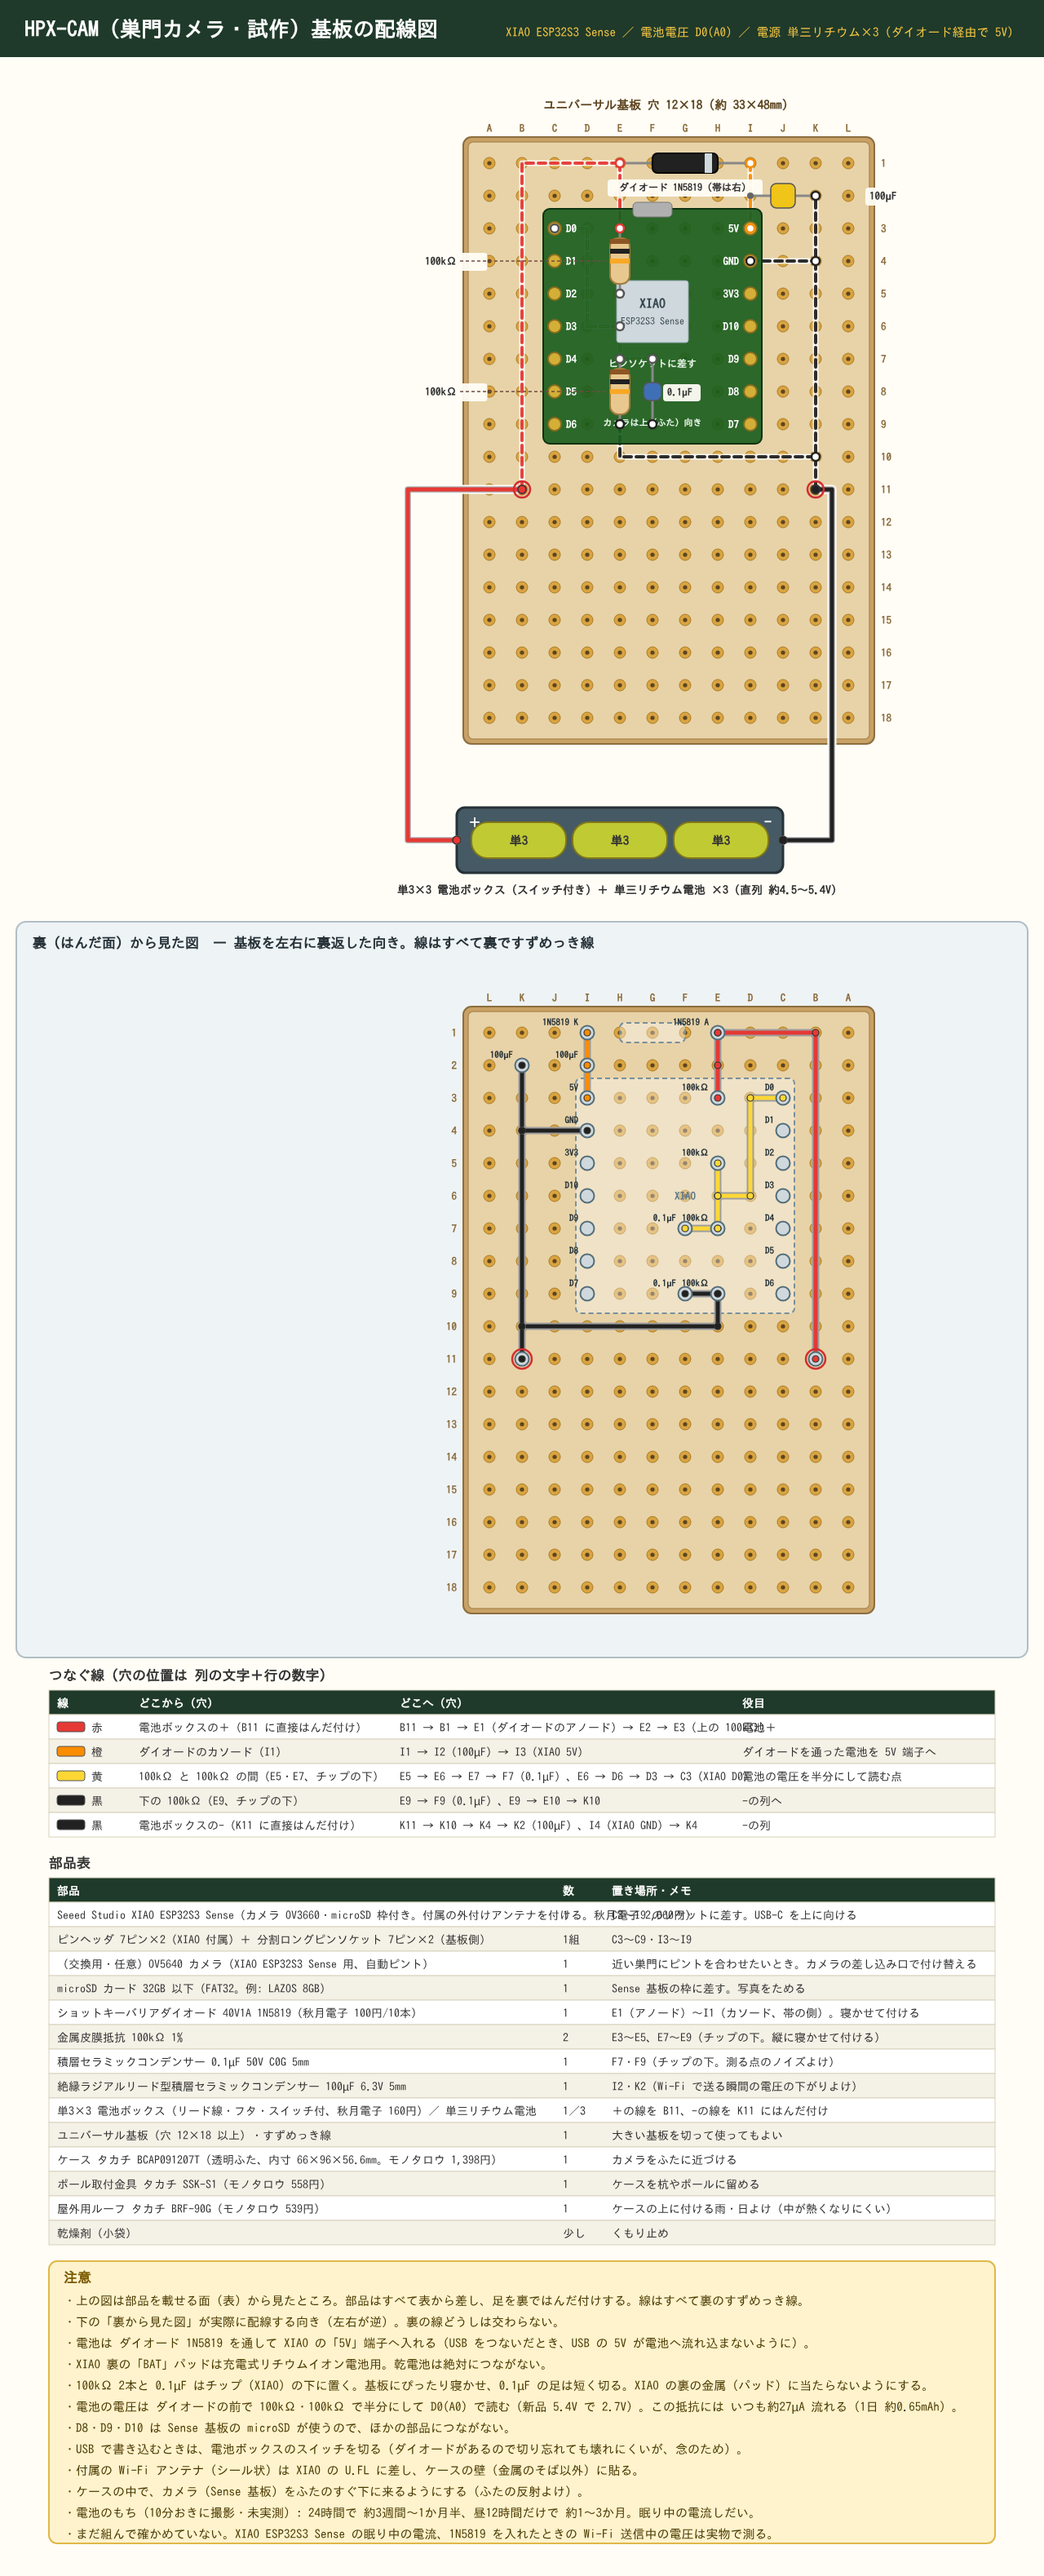
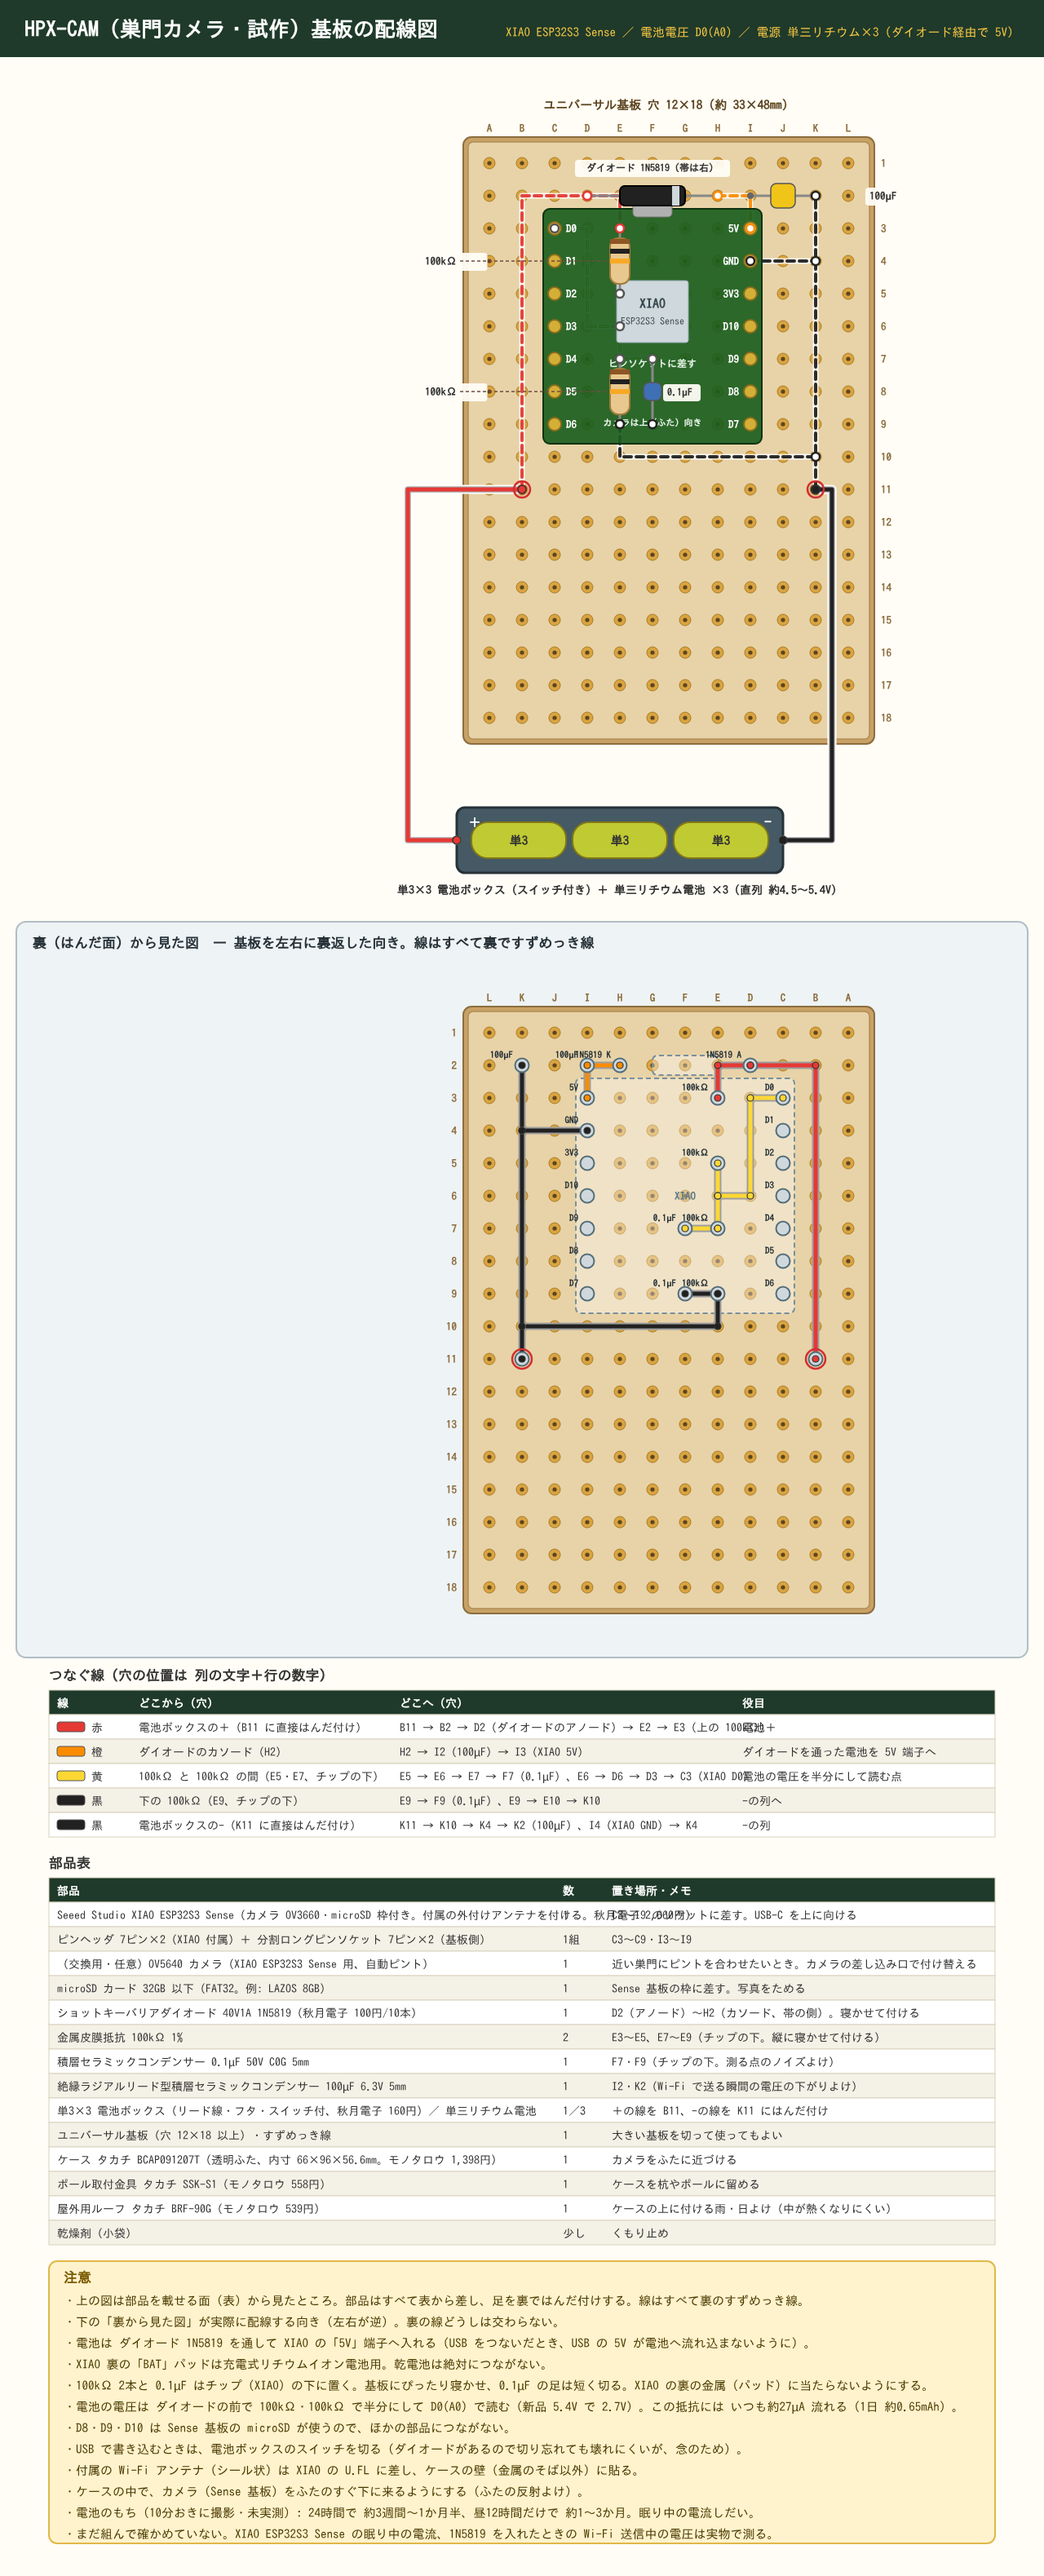
HPX-CAM: ダイオードを D2〜H2 に (TARO 指定)
Claude-Session: https://claude.ai/code/session_01LCC9B3VoVWL7WDxMCJTnsZ

Changed region(s): [[0.5938, 0.3724, 0.7812, 0.4345], [0.5, 0.0621, 0.7188, 0.0931], [0.5625, 0.4034, 0.5938, 0.4345]]

diff --git a/site/device-cam.html b/site/device-cam.html
@@ -252,11 +252,11 @@
       </figure>
       <div class="wtab"><h3>つなぐ線（穴の位置は 列の文字＋行の数字）</h3><div class="scroll"><table>
         <thead><tr><th>線</th><th>どこから（穴）</th><th>どこへ（穴）</th><th>役目</th></tr></thead>
-        <tbody><tr><td class="wc"><span class="sw" style="background:#e53935"></span>赤</td><td>電池ボックスの＋（B11 に直接はんだ付け）</td><td>B11 → B1 → E1（ダイオードのアノード）→ E2 → E3（上の 100kΩ）</td><td>電池＋</td></tr><tr><td class="wc"><span class="sw" style="background:#fb8c00"></span>橙</td><td>ダイオードのカソード（I1）</td><td>I1 → I2（100µF）→ I3（XIAO 5V）</td><td>ダイオードを通った電池を 5V 端子へ</td></tr><tr><td class="wc"><span class="sw" style="background:#fdd835"></span>黄</td><td>100kΩ と 100kΩ の間（E5・E7、チップの下）</td><td>E5 → E6 → E7 → F7（0.1µF）、E6 → D6 → D3 → C3（XIAO D0）</td><td>電池の電圧を半分にして読む点</td></tr><tr><td class="wc"><span class="sw" style="background:#212121"></span>黒</td><td>下の 100kΩ（E9、チップの下）</td><td>E9 → F9（0.1µF）、E9 → E10 → K10</td><td>−の列へ</td></tr><tr><td class="wc"><span class="sw" style="background:#212121"></span>黒</td><td>電池ボックスの−（K11 に直接はんだ付け）</td><td>K11 → K10 → K4 → K2（100µF）、I4（XIAO GND）→ K4</td><td>−の列</td></tr></tbody>
+        <tbody><tr><td class="wc"><span class="sw" style="background:#e53935"></span>赤</td><td>電池ボックスの＋（B11 に直接はんだ付け）</td><td>B11 → B2 → D2（ダイオードのアノード）→ E2 → E3（上の 100kΩ）</td><td>電池＋</td></tr><tr><td class="wc"><span class="sw" style="background:#fb8c00"></span>橙</td><td>ダイオードのカソード（H2）</td><td>H2 → I2（100µF）→ I3（XIAO 5V）</td><td>ダイオードを通った電池を 5V 端子へ</td></tr><tr><td class="wc"><span class="sw" style="background:#fdd835"></span>黄</td><td>100kΩ と 100kΩ の間（E5・E7、チップの下）</td><td>E5 → E6 → E7 → F7（0.1µF）、E6 → D6 → D3 → C3（XIAO D0）</td><td>電池の電圧を半分にして読む点</td></tr><tr><td class="wc"><span class="sw" style="background:#212121"></span>黒</td><td>下の 100kΩ（E9、チップの下）</td><td>E9 → F9（0.1µF）、E9 → E10 → K10</td><td>−の列へ</td></tr><tr><td class="wc"><span class="sw" style="background:#212121"></span>黒</td><td>電池ボックスの−（K11 に直接はんだ付け）</td><td>K11 → K10 → K4 → K2（100µF）、I4（XIAO GND）→ K4</td><td>−の列</td></tr></tbody>
       </table></div></div>
       <div class="wtab"><h3>部品の置き場所</h3><div class="scroll"><table>
         <thead><tr><th>部品</th><th>数</th><th>置き場所・メモ</th></tr></thead>
-        <tbody><tr><td>Seeed Studio XIAO ESP32S3 Sense（カメラ OV3660・microSD 枠付き。付属の外付けアンテナを付ける。秋月電子 2,660円）</td><td>1</td><td>C3〜I9 のソケットに差す。USB-C を上に向ける</td></tr><tr><td>ピンヘッダ 7ピン×2（XIAO 付属）＋ 分割ロングピンソケット 7ピン×2（基板側）</td><td>1組</td><td>C3〜C9・I3〜I9</td></tr><tr><td>（交換用・任意）OV5640 カメラ（XIAO ESP32S3 Sense 用、自動ピント）</td><td>1</td><td>近い巣門にピントを合わせたいとき。カメラの差し込み口で付け替える</td></tr><tr><td>microSD カード 32GB 以下（FAT32。例: LAZOS 8GB）</td><td>1</td><td>Sense 基板の枠に差す。写真をためる</td></tr><tr><td>ショットキーバリアダイオード 40V1A 1N5819（秋月電子 100円/10本）</td><td>1</td><td>E1（アノード）〜I1（カソード、帯の側）。寝かせて付ける</td></tr><tr><td>金属皮膜抵抗 100kΩ 1%</td><td>2</td><td>E3〜E5、E7〜E9（チップの下。縦に寝かせて付ける）</td></tr><tr><td>積層セラミックコンデンサー 0.1µF 50V C0G 5mm</td><td>1</td><td>F7・F9（チップの下。測る点のノイズよけ）</td></tr><tr><td>絶縁ラジアルリード型積層セラミックコンデンサー 100µF 6.3V 5mm</td><td>1</td><td>I2・K2（Wi-Fi で送る瞬間の電圧の下がりよけ）</td></tr><tr><td>単3×3 電池ボックス（リード線・フタ・スイッチ付、秋月電子 160円）／ 単三リチウム電池</td><td>1／3</td><td>＋の線を B11、−の線を K11 にはんだ付け</td></tr><tr><td>ユニバーサル基板（穴 12×18 以上）・すずめっき線</td><td>1</td><td>大きい基板を切って使ってもよい</td></tr><tr><td>ケース タカチ BCAP091207T（透明ふた、内寸 66×96×56.6mm。モノタロウ 1,398円）</td><td>1</td><td>カメラをふたに近づける</td></tr><tr><td>ポール取付金具 タカチ SSK-S1（モノタロウ 558円）</td><td>1</td><td>ケースを杭やポールに留める</td></tr><tr><td>屋外用ルーフ タカチ BRF-90G（モノタロウ 539円）</td><td>1</td><td>ケースの上に付ける雨・日よけ（中が熱くなりにくい）</td></tr><tr><td>乾燥剤（小袋）</td><td>少し</td><td>くもり止め</td></tr></tbody>
+        <tbody><tr><td>Seeed Studio XIAO ESP32S3 Sense（カメラ OV3660・microSD 枠付き。付属の外付けアンテナを付ける。秋月電子 2,660円）</td><td>1</td><td>C3〜I9 のソケットに差す。USB-C を上に向ける</td></tr><tr><td>ピンヘッダ 7ピン×2（XIAO 付属）＋ 分割ロングピンソケット 7ピン×2（基板側）</td><td>1組</td><td>C3〜C9・I3〜I9</td></tr><tr><td>（交換用・任意）OV5640 カメラ（XIAO ESP32S3 Sense 用、自動ピント）</td><td>1</td><td>近い巣門にピントを合わせたいとき。カメラの差し込み口で付け替える</td></tr><tr><td>microSD カード 32GB 以下（FAT32。例: LAZOS 8GB）</td><td>1</td><td>Sense 基板の枠に差す。写真をためる</td></tr><tr><td>ショットキーバリアダイオード 40V1A 1N5819（秋月電子 100円/10本）</td><td>1</td><td>D2（アノード）〜H2（カソード、帯の側）。寝かせて付ける</td></tr><tr><td>金属皮膜抵抗 100kΩ 1%</td><td>2</td><td>E3〜E5、E7〜E9（チップの下。縦に寝かせて付ける）</td></tr><tr><td>積層セラミックコンデンサー 0.1µF 50V C0G 5mm</td><td>1</td><td>F7・F9（チップの下。測る点のノイズよけ）</td></tr><tr><td>絶縁ラジアルリード型積層セラミックコンデンサー 100µF 6.3V 5mm</td><td>1</td><td>I2・K2（Wi-Fi で送る瞬間の電圧の下がりよけ）</td></tr><tr><td>単3×3 電池ボックス（リード線・フタ・スイッチ付、秋月電子 160円）／ 単三リチウム電池</td><td>1／3</td><td>＋の線を B11、−の線を K11 にはんだ付け</td></tr><tr><td>ユニバーサル基板（穴 12×18 以上）・すずめっき線</td><td>1</td><td>大きい基板を切って使ってもよい</td></tr><tr><td>ケース タカチ BCAP091207T（透明ふた、内寸 66×96×56.6mm。モノタロウ 1,398円）</td><td>1</td><td>カメラをふたに近づける</td></tr><tr><td>ポール取付金具 タカチ SSK-S1（モノタロウ 558円）</td><td>1</td><td>ケースを杭やポールに留める</td></tr><tr><td>屋外用ルーフ タカチ BRF-90G（モノタロウ 539円）</td><td>1</td><td>ケースの上に付ける雨・日よけ（中が熱くなりにくい）</td></tr><tr><td>乾燥剤（小袋）</td><td>少し</td><td>くもり止め</td></tr></tbody>
       </table></div></div>
       <div class="wnote"><h3>注意</h3><ul><li>上の図は部品を載せる面（表）から見たところ。部品はすべて表から差し、足を裏ではんだ付けする。線はすべて裏のすずめっき線。</li><li>下の「裏から見た図」が実際に配線する向き（左右が逆）。裏の線どうしは交わらない。</li><li>電池は ダイオード 1N5819 を通して XIAO の「5V」端子へ入れる（USB をつないだとき、USB の 5V が電池へ流れ込まないように）。</li><li>XIAO 裏の「BAT」パッドは充電式リチウムイオン電池用。乾電池は絶対につながない。</li><li>100kΩ 2本と 0.1µF はチップ（XIAO）の下に置く。基板にぴったり寝かせ、0.1µF の足は短く切る。XIAO の裏の金属（パッド）に当たらないようにする。</li><li>電池の電圧は ダイオードの前で 100kΩ・100kΩ で半分にして D0(A0) で読む（新品 5.4V で 2.7V）。この抵抗には いつも約27µA 流れる（1日 約0.65mAh）。</li><li>D8・D9・D10 は Sense 基板の microSD が使うので、ほかの部品につながない。</li><li>USB で書き込むときは、電池ボックスのスイッチを切る（ダイオードがあるので切り忘れても壊れにくいが、念のため）。</li><li>付属の Wi-Fi アンテナ（シール状）は XIAO の U.FL に差し、ケースの壁（金属のそば以外）に貼る。</li><li>ケースの中で、カメラ（Sense 基板）をふたのすぐ下に来るようにする（ふたの反射よけ）。</li><li>電池のもち（10分おきに撮影・未実測）: 24時間で 約3週間〜1か月半、昼12時間だけで 約1〜3か月。眠り中の電流しだい。</li><li>まだ組んで確かめていない。XIAO ESP32S3 Sense の眠り中の電流、1N5819 を入れたときの Wi-Fi 送信中の電圧は実物で測る。</li></ul></div>
       <div class="soonbox">組み立ての手順は、準備ができしだい掲載します。</div>

diff --git a/hardware/wiring/gen_pcb.py b/hardware/wiring/gen_pcb.py
@@ -1424,8 +1424,8 @@ p = xiao_pcb(s, 2, 2, "ESP32S3 Sense")
 cx_ = (H(2, 2)[0] + H(8, 2)[0]) / 2
 s.text(cx_, H(0, 8)[1] + 2, "カメラは上（ふた）向き", 11, "middle", "bold", "#e8f5e9", layer=s.top)
 
-# ショットキーダイオード 1N5819（寝かせて付ける、E1＝アノード、I1＝カソード（帯の側））
-(x1, y1), (x2, y2) = H(*hole("E1")), H(*hole("I1"))
+# ショットキーダイオード 1N5819（寝かせて付ける、D2＝アノード、H2＝カソード（帯の側）。TARO 2026-11-21 に E1〜I1 から移動）
+(x1, y1), (x2, y2) = H(*hole("D2")), H(*hole("H2"))
 rec_pin(x1, y1, "1N5819 A"); rec_pin(x2, y2, "1N5819 K")
 s.top.append(f'<line x1="{x1}" y1="{y1}" x2="{x2}" y2="{y2}" stroke="#888" stroke-width="3"/>')
 s.top.append(f'<rect x="{(x1+x2)/2-40}" y="{y1-12}" width="80" height="24" rx="6" fill="#212121" stroke="#000" stroke-width="2"/>')
@@ -1433,7 +1433,7 @@ s.top.append(f'<rect x="{(x1+x2)/2+24}" y="{y1-12}" width="9" height="24" fill="
 for x, y in ((x1, y1), (x2, y2)):
     s.top.append(f'<circle cx="{x}" cy="{y}" r="4" fill="#666"/>')
 rec_part((x1 + x2) / 2 - 40, y1 - 12, 80, 24, "")
-tag((x1 + x2) / 2, y1 + 34, "ダイオード 1N5819（帯は右）", 12, "middle", w=190)
+tag((x1 + x2) / 2, y1 - 30, "ダイオード 1N5819（帯は右）", 12, "middle", w=190)   # チップと重ならないよう上に
 
 # TARO 2026-11-21 (2回目): 100kΩ 2本と 0.1µF はチップの下 (縦向き)。電池＋の線はチップの下を通さず A2 から。電池−は K11、−の列は K
 res_flat("E3", "E5", "100kΩ", ["#8d5524", "#212121", "#f9a825"], (OX - 40, H(0, R(4))[1] + 5), "end")
@@ -1445,9 +1445,9 @@ tag(H(Lc("F"), 0)[0] + 18, H(0, R(8))[1] + 5, "0.1µF", 12, "start", w=46)
 cap_flat(s, hole("I2"), hole("K2"), "100µF", True)
 tag(H(Lc("L"), 0)[0] + 26, H(0, R(2))[1] + 5, "100µF", w=52)
 
-w("red",    "B11", "B1", "E1")                     # 電池＋（B11）→ ダイオードのアノード（TARO 2026-11-21）
-w("red",    "E1", "E2", "E3")                      # → 上の 100kΩ
-w("orange", "I1", "I2", "I3")                      # ダイオードのカソード → XIAO 5V（I2 は 100µF の足）
+w("red",    "B11", "B2", "D2")                     # 電池＋（B11）→ ダイオードのアノード（TARO 2026-11-21）
+w("red",    "D2", "E2", "E3")                      # → 上の 100kΩ（E2 はダイオードの下の穴、裏で通す）
+w("orange", "H2", "I2", "I3")                      # ダイオードのカソード → 100µF → XIAO 5V
 w("yellow", "E5", "E6", "E7")                      # 100kΩ と 100kΩ の間（測る点）
 w("yellow", "E7", "F7")                            # → 0.1µF
 w("yellow", "E6", "D6", "D3", "C3")                # → XIAO D0(A0)
@@ -1473,8 +1473,8 @@ solder_mark(s, *hole("B11")); solder_mark(s, *hole("K11"))
 yb = back_section(s, by + 140, "HPX-CAM_pcb.svg")
 y = table(s, 60, yb + 40, [
     ["線", "どこから（穴）", "どこへ（穴）", "役目"],
-    ["red", "電池ボックスの＋（B11 に直接はんだ付け）", "B11 → B1 → E1（ダイオードのアノード）→ E2 → E3（上の 100kΩ）", "電池＋"],
-    ["orange", "ダイオードのカソード（I1）", "I1 → I2（100µF）→ I3（XIAO 5V）", "ダイオードを通った電池を 5V 端子へ"],
+    ["red", "電池ボックスの＋（B11 に直接はんだ付け）", "B11 → B2 → D2（ダイオードのアノード）→ E2 → E3（上の 100kΩ）", "電池＋"],
+    ["orange", "ダイオードのカソード（H2）", "H2 → I2（100µF）→ I3（XIAO 5V）", "ダイオードを通った電池を 5V 端子へ"],
     ["yellow", "100kΩ と 100kΩ の間（E5・E7、チップの下）", "E5 → E6 → E7 → F7（0.1µF）、E6 → D6 → D3 → C3（XIAO D0）", "電池の電圧を半分にして読む点"],
     ["black", "下の 100kΩ（E9、チップの下）", "E9 → F9（0.1µF）、E9 → E10 → K10", "−の列へ"],
     ["black", "電池ボックスの−（K11 に直接はんだ付け）", "K11 → K10 → K4 → K2（100µF）、I4（XIAO GND）→ K4", "−の列"],
@@ -1485,7 +1485,7 @@ y = table(s, 60, y + 50, [
     ["ピンヘッダ 7ピン×2（XIAO 付属）＋ 分割ロングピンソケット 7ピン×2（基板側）", "1組", "C3〜C9・I3〜I9"],
     ["（交換用・任意）OV5640 カメラ（XIAO ESP32S3 Sense 用、自動ピント）", "1", "近い巣門にピントを合わせたいとき。カメラの差し込み口で付け替える"],
     ["microSD カード 32GB 以下（FAT32。例: LAZOS 8GB）", "1", "Sense 基板の枠に差す。写真をためる"],
-    ["ショットキーバリアダイオード 40V1A 1N5819（秋月電子 100円/10本）", "1", "E1（アノード）〜I1（カソード、帯の側）。寝かせて付ける"],
+    ["ショットキーバリアダイオード 40V1A 1N5819（秋月電子 100円/10本）", "1", "D2（アノード）〜H2（カソード、帯の側）。寝かせて付ける"],
     ["金属皮膜抵抗 100kΩ 1%", "2", "E3〜E5、E7〜E9（チップの下。縦に寝かせて付ける）"],
     ["積層セラミックコンデンサー 0.1µF 50V C0G 5mm", "1", "F7・F9（チップの下。測る点のノイズよけ）"],
     ["絶縁ラジアルリード型積層セラミックコンデンサー 100µF 6.3V 5mm", "1", "I2・K2（Wi-Fi で送る瞬間の電圧の下がりよけ）"],
